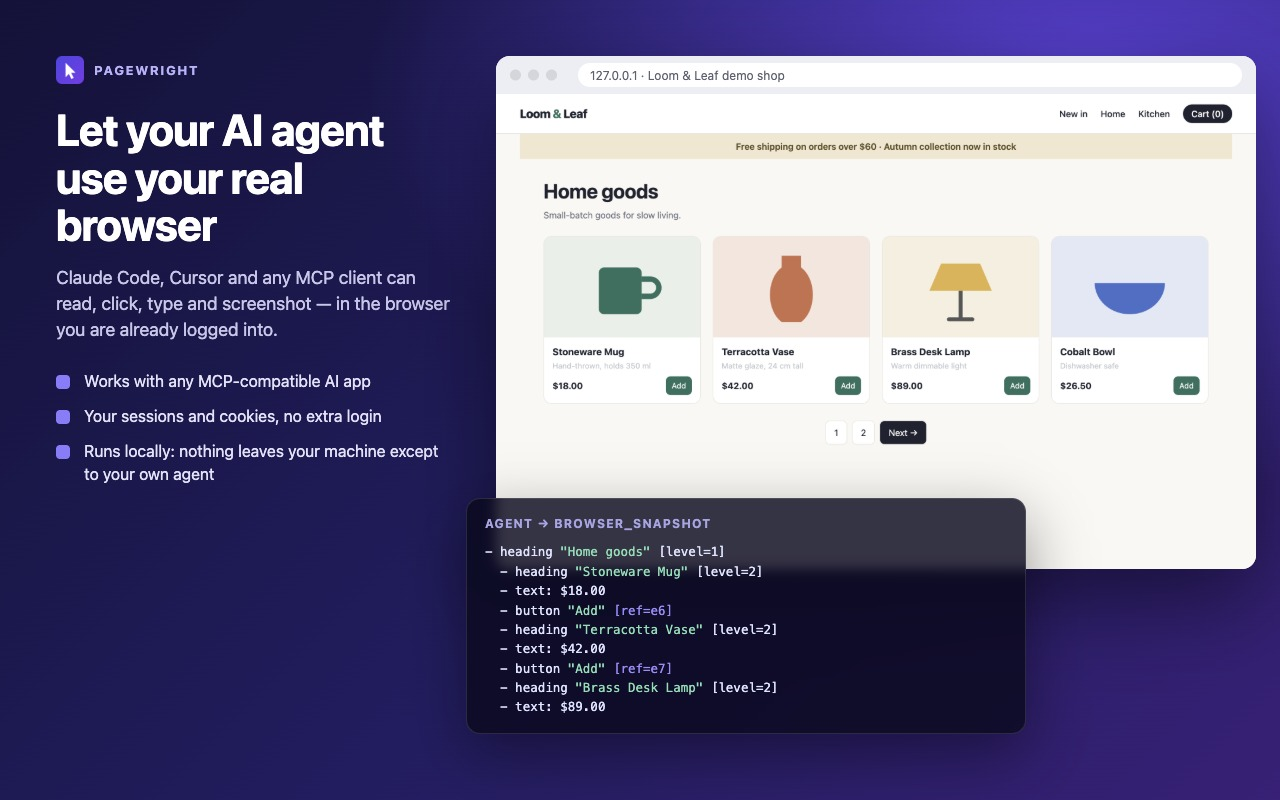
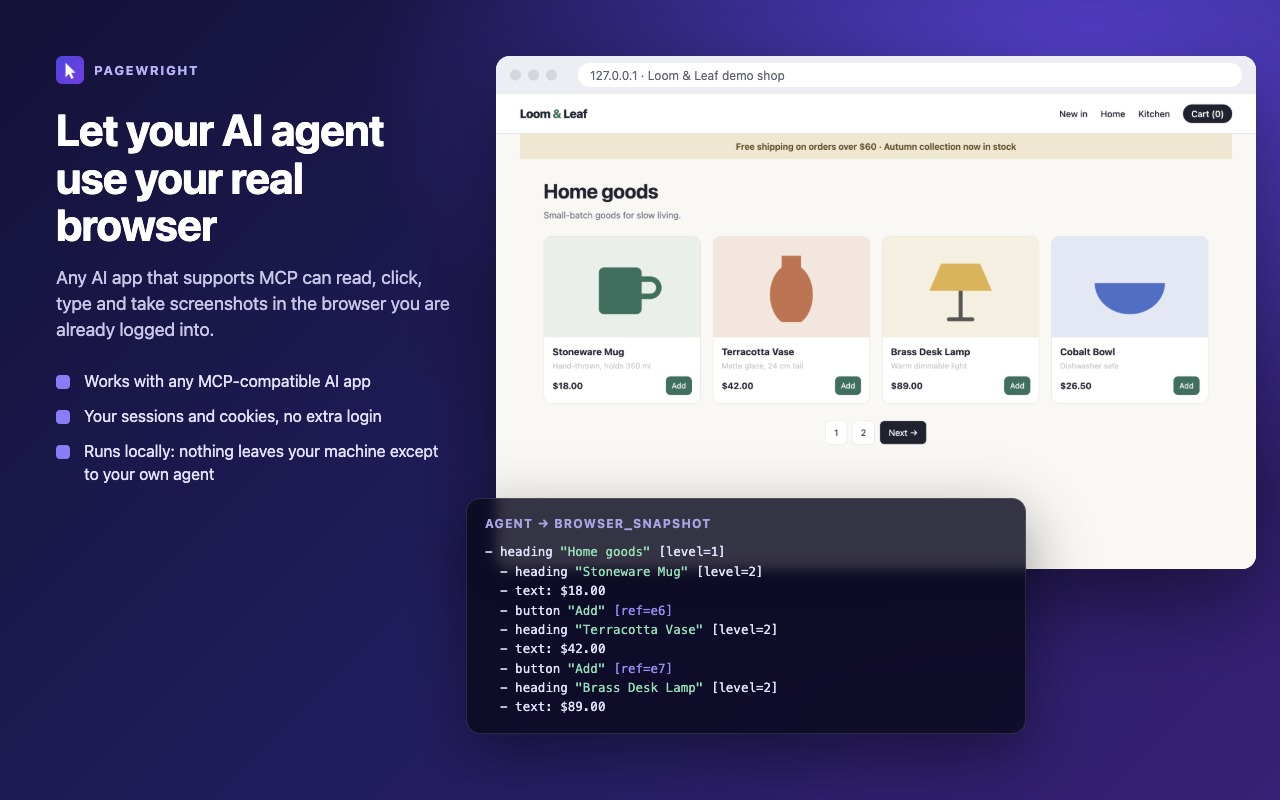
Pagewright 1.0.1: remove third-party product names from store metadata
The Chrome Web Store rejected 1.0.0 (Yellow Argon, excessive keywords)
for listing other AI apps in the description. Remove them from the
summary, description and screenshots.

Changed region(s): [[0.0312, 0.3438, 0.3438, 0.4375]]

diff --git a/store/LISTING.md b/store/LISTING.md
@@ -1,10 +1,14 @@
-# Chrome Web Store submission: Pagewright 1.0.0
+# Chrome Web Store submission: Pagewright 1.0.1
+
+Item ID: `okaikhpiadgbeglkkkkbijanhpebbgdf`
+
+> 1.0.0 was rejected (Yellow Argon: "excessive keywords") for naming other AI products in the description. Don't list third-party app names anywhere in the listing, summary or images.
 
 Everything needed for the [Developer Dashboard](https://chrome.google.com/webstore/devconsole), in the order the tabs appear. Rebuild the package with `npm run build:store`, and the images with `npm run store:assets` (requires `BROWSER_BIN`, see the README).
 
 ## 1. Package
 
-Upload **`dist/pagewright-1.0.0.zip`**.
+Upload **`dist/pagewright-1.0.1.zip`**.
 
 The store build is the same as the GitHub build except that `browser_evaluate` (running arbitrary JavaScript sent by the agent) is disabled, so the package runs only code it ships with.
 
@@ -12,7 +16,7 @@ The store build is the same as the GitHub build except that `browser_evaluate` (
 
 **Title** (taken from the manifest): `Pagewright – AI Browser Control & Scraping (MCP)`
 
-**Summary** (taken from the manifest, 126/132 chars): `Let AI agents (Claude Code, Cursor, any MCP client) use your browser: read pages, click, screenshot, fix layouts, scrape data.`
+**Summary** (taken from the manifest, 117/132 chars): `Let AI agents use your browser through MCP: read pages, click, type, take screenshots, debug layouts and scrape data.`
 
 **Category:** Developer Tools
 
@@ -21,7 +25,7 @@ The store build is the same as the GitHub build except that `browser_evaluate` (
 **Description** (paste as is):
 
 ```
-Pagewright connects your browser to AI agents through the Model Context Protocol (MCP). Claude Code, Claude Desktop, Cursor, Windsurf, VS Code and any other MCP client can read pages, click, type and take screenshots in the browser you already use, with your existing logins.
+Pagewright connects your browser to AI agents through the Model Context Protocol (MCP). Any AI app that supports MCP can read pages, click, type and take screenshots in the browser you already use, with your existing logins.
 
 WHAT YOUR AGENT CAN DO
 • Read any page as a compact outline of headings, text and interactive elements, each with a short reference the agent can click or type into
@@ -50,7 +54,7 @@ PRIVATE BY DESIGN
 SETUP (about a minute)
 1. Install Node.js 18 or newer.
 2. Run: npx -y github:zamansheikh/browser-mcp setup
-   This installs the local MCP server and registers it with Claude Code. For other apps it prints the configuration to paste.
+   This installs the local MCP server and shows how to add it to your AI app.
 3. Restart your AI app and ask it to run browser_status.
 
 Pagewright is open source (MIT): https://github.com/zamansheikh/browser-mcp
@@ -77,7 +81,7 @@ Note: pages built into the browser (chrome:// pages and the Chrome Web Store) ca
 **Single purpose description:**
 
 ```
-Pagewright lets an AI application running on the user's own computer (an MCP client such as Claude Code or Cursor) read and operate the user's browser tabs: reading page content, taking screenshots, clicking and typing, inspecting layout and styles for web development, and extracting data from pages. It communicates only with a local server on 127.0.0.1 that the user installs and runs.
+Pagewright lets an AI application running on the user's own computer (an MCP client) read and operate the user's browser tabs: reading page content, taking screenshots, clicking and typing, inspecting layout and styles for web development, and extracting data from pages. It communicates only with a local server on 127.0.0.1 that the user installs and runs.
 ```
 
 **Permission justifications:**
